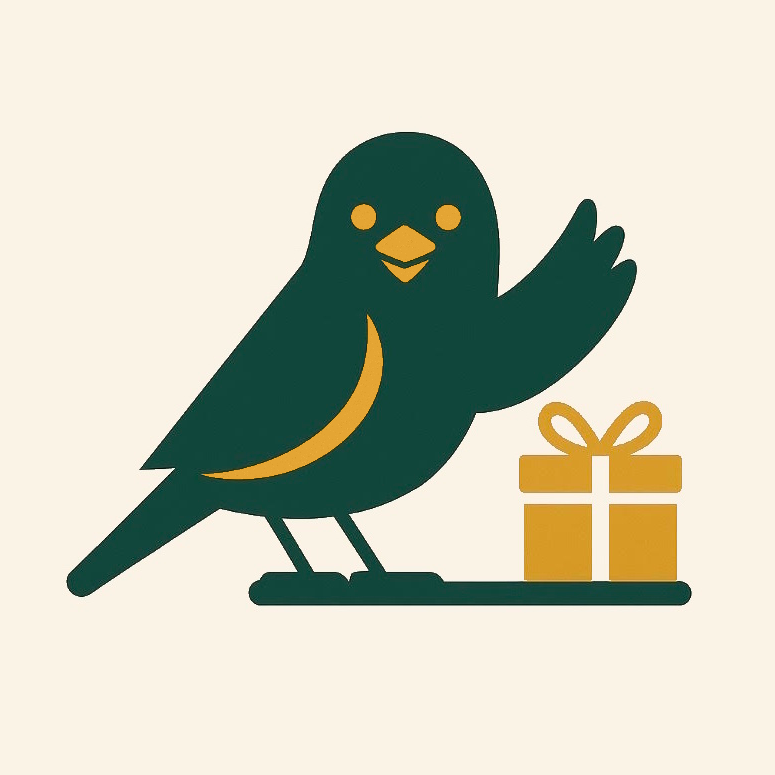
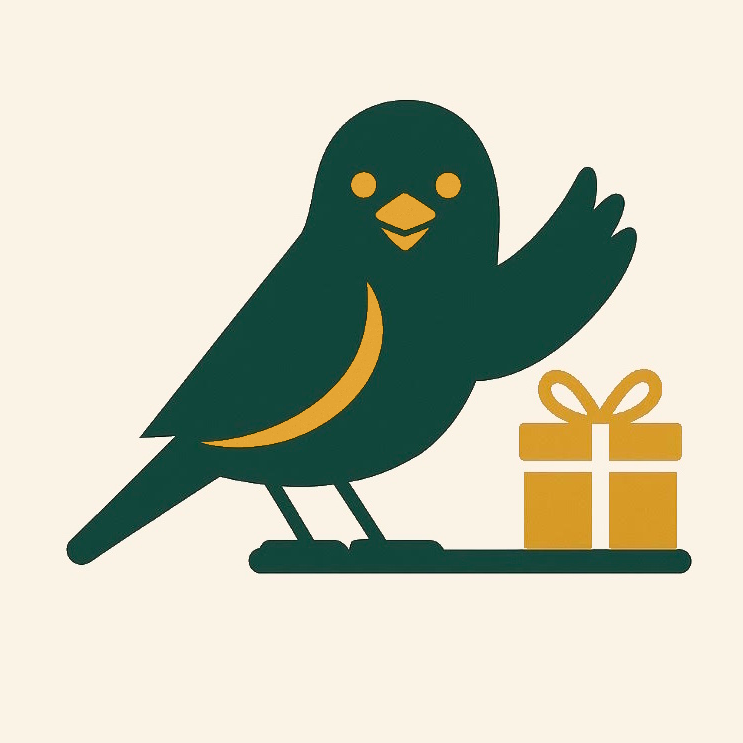
Replaced the PerchPal animation on dashboard with the new image of PerchPal waving

diff --git a/src/components/dashboard/DashboardHighlights.tsx b/src/components/dashboard/DashboardHighlights.tsx
@@ -440,7 +440,13 @@ export function DashboardHighlights() {
           PerchPal
         </p>
         <div className="flex items-center gap-3">
-          <PerchPalFlyingAvatar size="sm" className="shrink-0" />
+          <Image
+            src="/giftperch_perchpal_front.png"
+            alt="PerchPal"
+            width={56}
+            height={56}
+            className="h-12 w-12 rounded-full border border-gp-evergreen/10 bg-gp-cream/80 object-contain shadow-sm"
+          />
           <div>
             <h3 className="text-lg font-semibold text-gp-evergreen">Chat with PerchPal</h3>
             <p className="text-sm text-gp-evergreen/70">Your AI gifting assistant</p>
